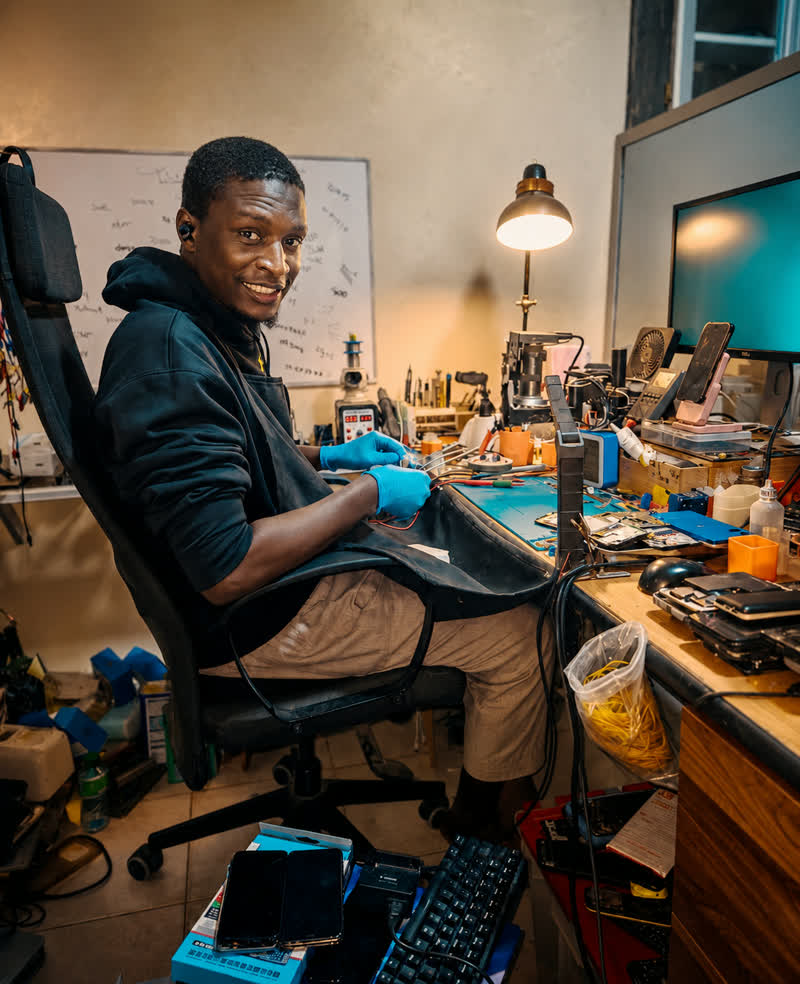
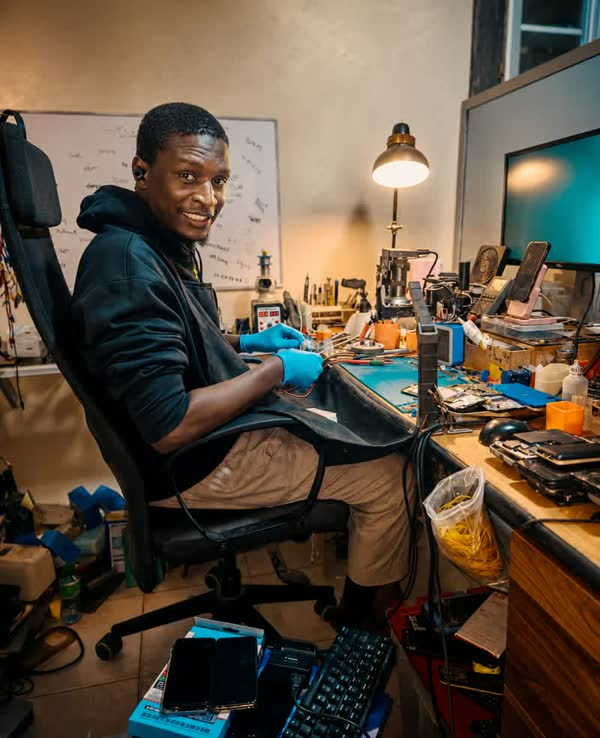
perf+features: optimisation images, section tarifs, 404, PWA, a11y
Performance:
- OG images: PNG 1.4MB + 600KB -> JPG 43KB + 26KB (-97%)
- Vidéo microsoudure: 7.8MB -> 3.1MB (540x960, 30s, H.264 CRF 30)
- Lazy-load de la vidéo microsoudure via IntersectionObserver
- Preload du poster hero pour LCP
- Posters JPG recompressés (poster-microsoudure 137KB -> 90KB)

Features:
- Section Tarifs transparents (3 fourchettes indicatives + disclaimer)
- 404.html custom
- Manifest PWA (manifest.webmanifest)
- Sitemap enrichi avec image metadata
- robots.txt bloque /404.html

Accessibilité:
- Skip-link 'Aller au contenu'
- aria-live sur l'indicateur Ouvert/Fermé
- Bouton WhatsApp flottant s'estompe près du footer

Cleanup:
- Suppression code mort (Stats Counter Animation + .stat-card)
- Suppression assets inutilisés (circuit-board-ot404.jpg, favicon-32.png)
- Suppression PNG originaux OG (remplacés par JPG optimisés)

diff --git a/styles.css b/styles.css
@@ -2124,6 +2124,98 @@ footer {
   border-color: #25D366;
 }
 
+/* ========== SKIP LINK ========== */
+.skip-link {
+  position: absolute;
+  top: -100px;
+  left: 12px;
+  z-index: 1000;
+  padding: 0.7rem 1rem;
+  background: var(--accent);
+  color: #031016;
+  text-decoration: none;
+  font-weight: 600;
+  border-radius: 8px;
+  transition: top 0.2s ease;
+}
+.skip-link:focus,
+.skip-link:focus-visible {
+  top: 12px;
+  outline: 2px solid #fff;
+  outline-offset: 2px;
+}
+
+/* ========== PRICING ========== */
+.pricing-grid {
+  display: grid;
+  grid-template-columns: repeat(3, 1fr);
+  gap: 18px;
+  margin-top: 28px;
+}
+.pricing-card {
+  padding: 24px;
+  border-radius: 18px;
+  display: flex;
+  flex-direction: column;
+  gap: 10px;
+}
+.pricing-label {
+  font-size: 0.7rem;
+  text-transform: uppercase;
+  letter-spacing: 0.12em;
+  color: var(--accent);
+  font-weight: 700;
+}
+.pricing-card h3 {
+  font-size: 1.15rem;
+  margin: 0;
+  color: var(--text);
+}
+.pricing-card p {
+  font-size: 0.9rem;
+  color: var(--muted);
+  margin: 0;
+  flex: 1;
+}
+.pricing-range {
+  font-size: 0.85rem;
+  color: var(--muted);
+  border-top: 1px solid rgba(255, 255, 255, 0.08);
+  padding-top: 12px;
+  margin-top: 4px;
+}
+.pricing-range strong {
+  color: var(--text);
+  font-size: 1rem;
+  margin-left: 4px;
+}
+.pricing-disclaimer {
+  text-align: center;
+  font-size: 0.82rem;
+  color: var(--muted);
+  margin-top: 28px;
+  max-width: 720px;
+  margin-left: auto;
+  margin-right: auto;
+  line-height: 1.6;
+}
+.pricing-disclaimer strong {
+  color: var(--text);
+}
+@media (max-width: 880px) {
+  .pricing-grid { grid-template-columns: 1fr; }
+}
+
+/* ========== WHATSAPP FLOAT NEAR FOOTER ========== */
+.whatsapp-float.near-footer {
+  opacity: 0.35;
+  transform: translateY(8px);
+}
+.whatsapp-float.near-footer:hover {
+  opacity: 1;
+  transform: translateY(0);
+}
+
 /* ========== BUSINESS HOURS ========== */
 .business-hours {
   display: flex;

diff --git a/script.js b/script.js
@@ -45,7 +45,7 @@ const prefersReducedMotion = window.matchMedia("(prefers-reduced-motion: reduce)
 
 if (!prefersReducedMotion) {
   const motionSurfaces = document.querySelectorAll(
-    ".nav-shell, .service-card, .expertise-card, .trust-card, .review-invite, .contact-details > a, .testimonial-card, .faq-item, .stat-card"
+    ".nav-shell, .service-card, .expertise-card, .trust-card, .review-invite, .contact-details > a, .testimonial-card, .faq-item, .pricing-card"
   );
   const motionIcons = document.querySelectorAll(".service-icon, .mini-icon, .detail-icon");
 
@@ -81,34 +81,6 @@ const sectionObserver = new IntersectionObserver(
 sections.forEach((section) => sectionObserver.observe(section));
 
 document.querySelector("#year").textContent = new Date().getFullYear();
-
-// Stats Counter Animation
-const counterObserver = new IntersectionObserver(
-  (entries) => {
-    entries.forEach((entry) => {
-      if (!entry.isIntersecting) return;
-      const counters = entry.target.querySelectorAll(".stat-number");
-      counters.forEach((counter) => {
-        const target = parseInt(counter.dataset.target);
-        const duration = 2000;
-        const start = performance.now();
-        const animate = (now) => {
-          const progress = Math.min((now - start) / duration, 1);
-          const eased = 1 - Math.pow(1 - progress, 3);
-          counter.textContent = Math.floor(eased * target);
-          if (progress < 1) requestAnimationFrame(animate);
-          else counter.textContent = target;
-        };
-        requestAnimationFrame(animate);
-      });
-      counterObserver.unobserve(entry.target);
-    });
-  },
-  { threshold: 0.3 }
-);
-
-const statsSection = document.getElementById("stats");
-if (statsSection) counterObserver.observe(statsSection);
 
 // Scroll to Top
 const scrollTopBtn = document.getElementById("scrollTop");
@@ -147,4 +119,40 @@ if (openStatus) {
 
   updateOpenStatus();
   setInterval(updateOpenStatus, 60 * 1000);
+}
+
+// Lazy-load videos: load source only when the video enters the viewport
+const lazyVideos = document.querySelectorAll("video[data-lazy-video]");
+if (lazyVideos.length && "IntersectionObserver" in window) {
+  const videoObserver = new IntersectionObserver(
+    (entries) => {
+      entries.forEach((entry) => {
+        if (!entry.isIntersecting) return;
+        const video = entry.target;
+        const sources = video.querySelectorAll("source[data-src]");
+        sources.forEach((source) => {
+          source.src = source.dataset.src;
+        });
+        video.load();
+        videoObserver.unobserve(video);
+      });
+    },
+    { rootMargin: "200px 0px" }
+  );
+  lazyVideos.forEach((video) => videoObserver.observe(video));
+}
+
+// Floating WhatsApp button: ensure it doesn't cover content at the bottom
+const whatsappFloat = document.querySelector(".whatsapp-float");
+const footer = document.querySelector("footer");
+if (whatsappFloat && footer) {
+  const floatObserver = new IntersectionObserver(
+    (entries) => {
+      entries.forEach((entry) => {
+        whatsappFloat.classList.toggle("near-footer", entry.isIntersecting);
+      });
+    },
+    { threshold: 0.1 }
+  );
+  floatObserver.observe(footer);
 }

diff --git a/404.html b/404.html
@@ -1,0 +1,65 @@
+<!DOCTYPE html>
+<html lang="fr">
+  <head>
+    <meta charset="UTF-8" />
+    <meta name="viewport" content="width=device-width, initial-scale=1.0" />
+    <title>Page introuvable | OT404 COMP.</title>
+    <meta name="robots" content="noindex, follow" />
+    <meta name="theme-color" content="#031016" />
+    <meta name="description" content="La page demandée est introuvable. Retournez à l'accueil ou contactez OT404 COMP. à Dakar." />
+    <link rel="icon" type="image/svg+xml" href="favicon.svg" />
+    <link rel="canonical" href="https://ot404.com/404.html" />
+    <link rel="stylesheet" href="styles.css" />
+    <style>
+      .error-shell {
+        min-height: 100vh;
+        display: flex;
+        align-items: center;
+        justify-content: center;
+        padding: 24px;
+        text-align: center;
+      }
+      .error-card {
+        max-width: 520px;
+        padding: 40px 32px;
+      }
+      .error-code {
+        font-size: 4.5rem;
+        font-weight: 800;
+        letter-spacing: -0.04em;
+        color: var(--accent);
+        line-height: 1;
+        margin: 0 0 8px;
+      }
+      .error-actions {
+        display: flex;
+        flex-wrap: wrap;
+        gap: 12px;
+        justify-content: center;
+        margin-top: 24px;
+      }
+      .error-hint {
+        color: var(--muted);
+        font-size: 0.9rem;
+        margin-top: 18px;
+      }
+    </style>
+  </head>
+  <body>
+    <a class="skip-link" href="#main">Aller au contenu</a>
+    <div class="noise"></div>
+    <main class="error-shell" id="main">
+      <div class="glass error-card reveal">
+        <div class="eyebrow">Erreur 404</div>
+        <h1 class="error-code">404</h1>
+        <h2>Page introuvable</h2>
+        <p>La page que vous cherchez n'existe pas ou a été déplacée.</p>
+        <div class="error-actions">
+          <a class="button button-primary" href="/">Retour à l'accueil</a>
+          <a class="button button-glass" href="https://wa.me/221772947958?text=Bonjour%20OT404%20COMP.%2C%20je%20n%27ai%20pas%20trouv%C3%A9%20une%20page%20sur%20votre%20site%20%3A%20">Nous contacter</a>
+        </div>
+        <p class="error-hint">OT404 COMP. — Microsoudure &amp; réparation électronique à Dakar</p>
+      </div>
+    </main>
+  </body>
+</html>

diff --git a/index.html b/index.html
@@ -23,7 +23,7 @@
     <meta property="og:url" content="https://ot404.com/" />
     <meta property="og:title" content="OT404 COMP. | Microsoudure & réparation électronique" />
     <meta property="og:description" content="Téléphones, ordinateurs et cartes électroniques : OT404 COMP. diagnostique, répare et redonne vie à vos appareils avec une expertise pointue en microsoudure. Dakar, Sénégal." />
-    <meta property="og:image" content="https://ot404.com/ot404-preview.png" />
+    <meta property="og:image" content="https://ot404.com/ot404-preview.jpg" />
     <meta property="og:image:width" content="1200" />
     <meta property="og:image:height" content="630" />
     <meta property="og:image:alt" content="OT404 COMP. — Microsoudure & réparation électronique à Dakar" />
@@ -35,7 +35,7 @@
     <meta name="twitter:url" content="https://ot404.com/" />
     <meta name="twitter:title" content="OT404 COMP. | Microsoudure & réparation électronique" />
     <meta name="twitter:description" content="Téléphones, ordinateurs et cartes électroniques : diagnostic précis et microsoudure à Dakar." />
-    <meta name="twitter:image" content="https://ot404.com/ot404-preview.png" />
+    <meta name="twitter:image" content="https://ot404.com/ot404-preview.jpg" />
 
     <!-- JSON-LD Structured Data -->
     <script type="application/ld+json">
@@ -46,7 +46,7 @@
       "description": "Microsoudure et réparation électronique à Dakar. Téléphones, ordinateurs et cartes électroniques.",
       "url": "https://ot404.com",
       "telephone": "+221772947958",
-      "image": "https://ot404.com/ot404-preview.png",
+      "image": "https://ot404.com/ot404-preview.jpg",
       "logo": "https://ot404.com/assets/logo-ot404comp.png",
       "address": {
         "@type": "PostalAddress",
@@ -182,10 +182,13 @@
     <link rel="preconnect" href="https://fonts.googleapis.com" />
     <link rel="preconnect" href="https://fonts.gstatic.com" crossorigin />
     <link rel="preconnect" href="https://www.google.com" />
+    <link rel="preload" as="image" href="assets/poster-hero.jpg" fetchpriority="high" />
+    <link rel="manifest" href="manifest.webmanifest" />
 
     <link rel="stylesheet" href="styles.css" />
   </head>
   <body>
+    <a class="skip-link" href="#accueil">Aller au contenu</a>
     <!-- Page Loader -->
     <div class="page-loader" id="pageLoader">
       <div class="loader-content">
@@ -373,8 +376,8 @@
         />
 
         <div class="glass circuit-video reveal reveal-delay">
-          <video autoplay muted loop playsinline controls preload="metadata" poster="assets/poster-microsoudure.jpg">
-            <source src="assets/microsoudure-atelier-ot404.mp4" type="video/mp4" />
+          <video autoplay muted loop playsinline controls preload="none" poster="assets/poster-microsoudure.jpg" data-lazy-video>
+            <source data-src="assets/microsoudure-atelier-ot404.mp4" type="video/mp4" />
             Votre navigateur ne permet pas de lire cette vidéo.
           </video>
           <span class="circuit-shade"></span>
@@ -425,6 +428,38 @@
             </div>
           </div>
         </div>
+      </section>
+
+      <!-- Tarifs -->
+      <section class="pricing section" id="tarifs">
+        <div class="section-heading reveal">
+          <div class="eyebrow">Transparence</div>
+          <h2>Fourchettes<br /><span>indicatives.</span></h2>
+          <p>Les montants varient selon le modèle et la panne. Le diagnostic reste gratuit.</p>
+        </div>
+        <div class="pricing-grid">
+          <article class="glass pricing-card reveal">
+            <span class="pricing-label">Mobile</span>
+            <h3>Écran, batterie, charge</h3>
+            <p>Les pannes les plus courantes : écran fissuré, batterie en fin de vie, connecteur de charge défaillant.</p>
+            <span class="pricing-range">À partir de <strong>5 000 FCFA</strong></span>
+          </article>
+          <article class="glass pricing-card reveal reveal-delay">
+            <span class="pricing-label">Mobile</span>
+            <h3>Microsoudure carte mère</h3>
+            <p>Intervention au composant sur iPhone, Samsung et autres. Devis ferme après diagnostic.</p>
+            <span class="pricing-range">À partir de <strong>15 000 FCFA</strong></span>
+          </article>
+          <article class="glass pricing-card reveal reveal-delay-two">
+            <span class="pricing-label">Ordinateur</span>
+            <h3>PC &amp; portable</h3>
+            <p>Diagnostic, optimisation, remplacement de composants. Devis clair avant toute intervention.</p>
+            <span class="pricing-range">À partir de <strong>10 000 FCFA</strong></span>
+          </article>
+        </div>
+        <p class="pricing-disclaimer reveal">
+          Les tarifs ci-dessus sont des fourchettes indicatives. Le prix exact est communiqué après diagnostic, <strong>avant</strong> toute intervention. Aucune réparation n'est entreprise sans votre accord.
+        </p>
       </section>
 
       <section class="atelier section" id="atelier">